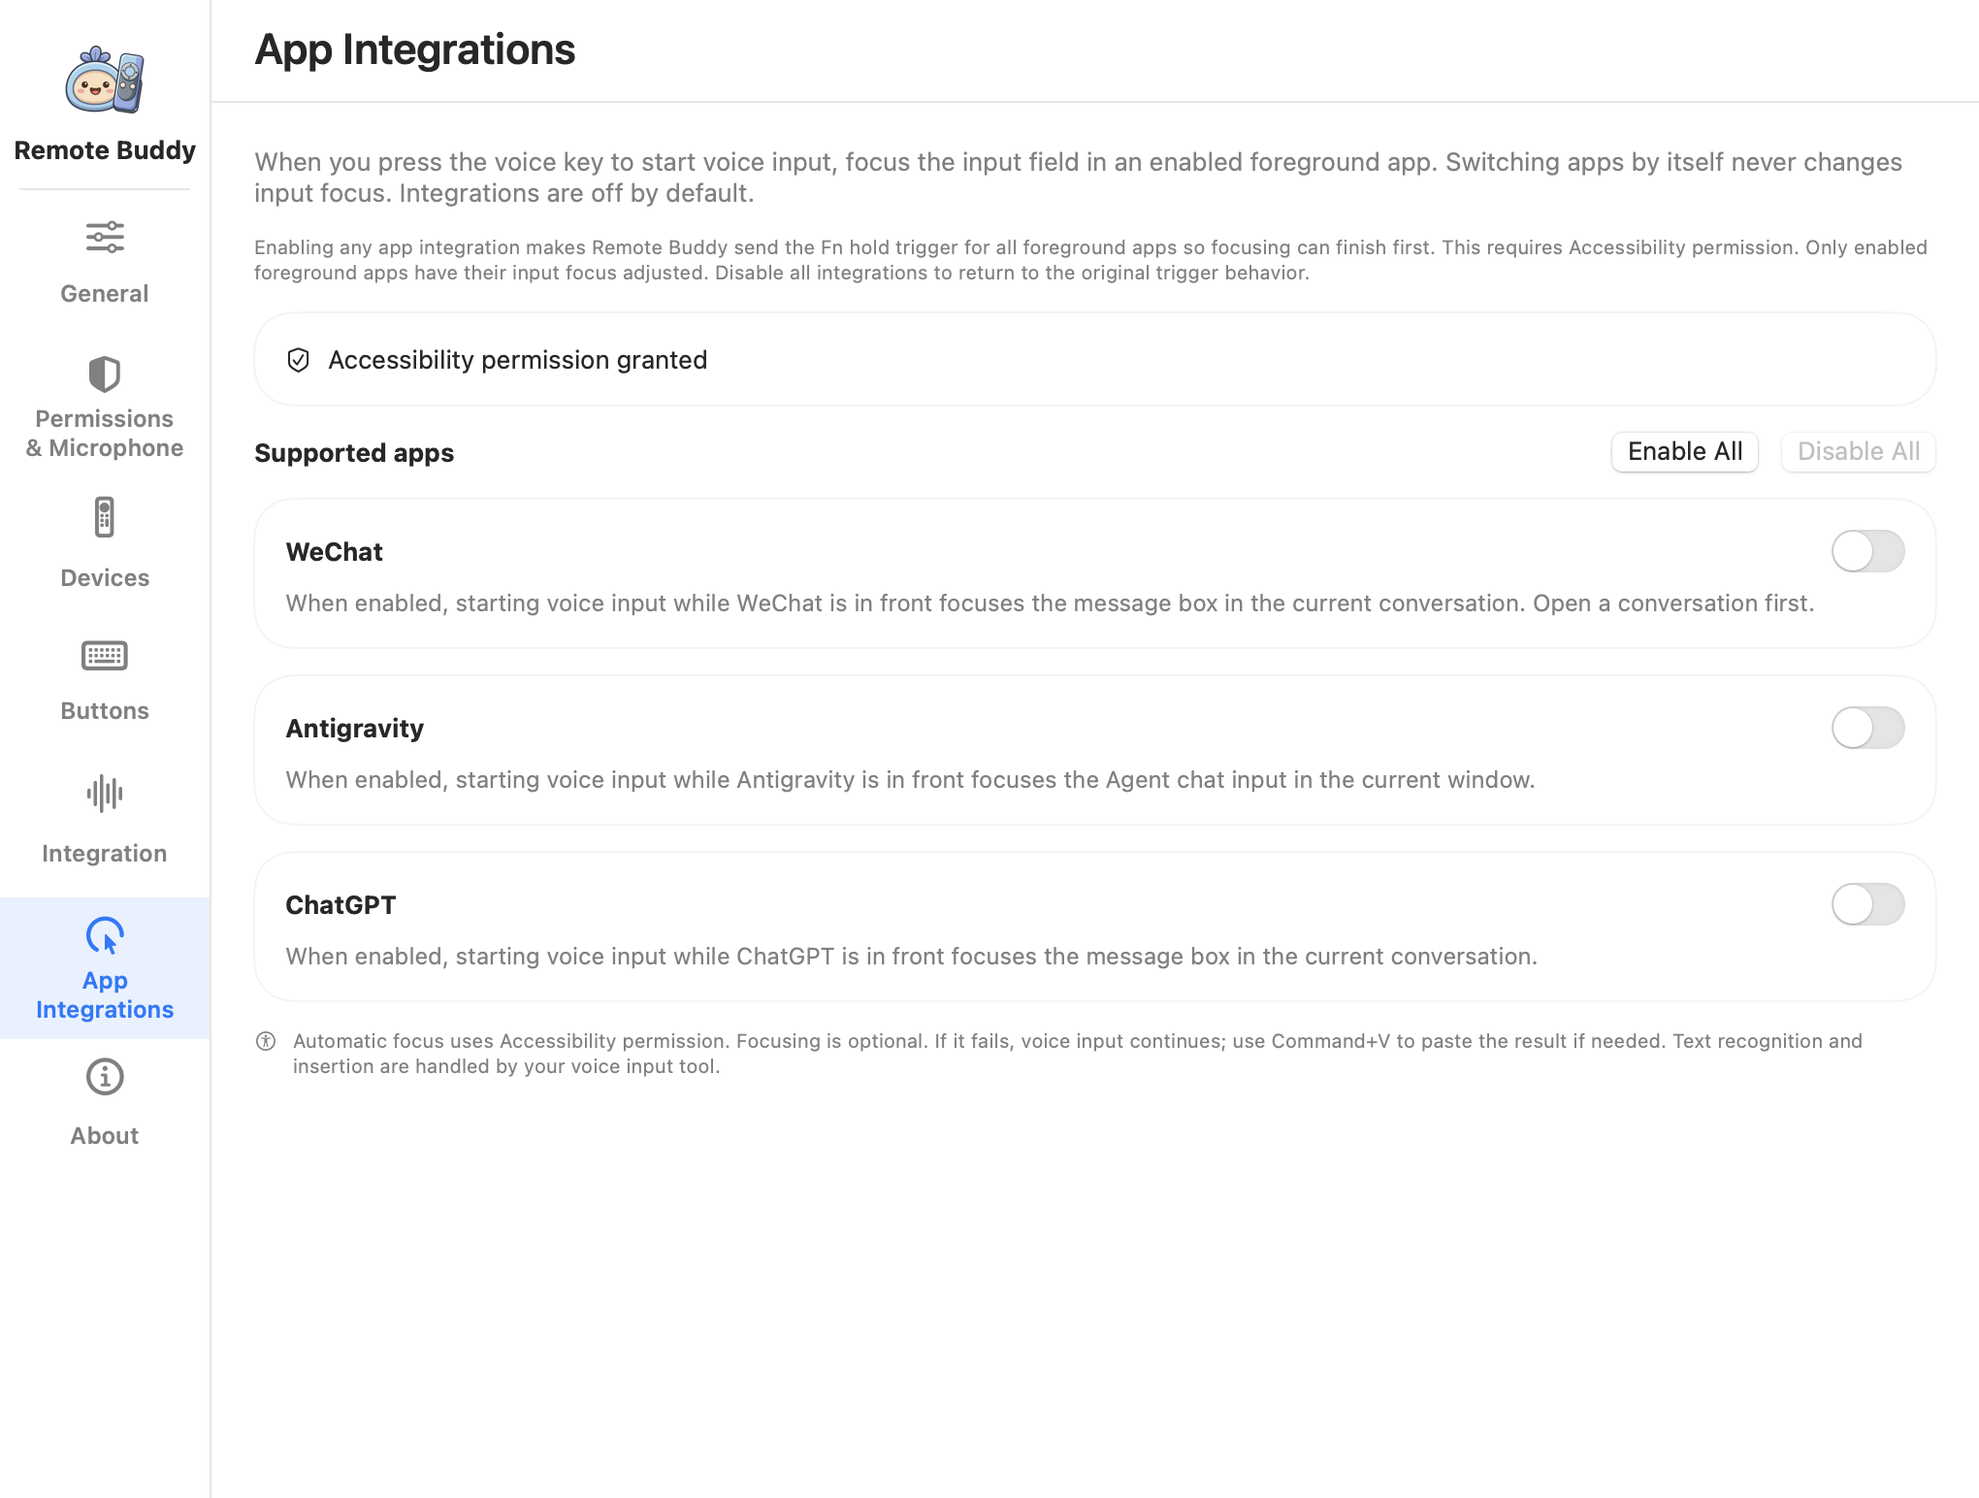
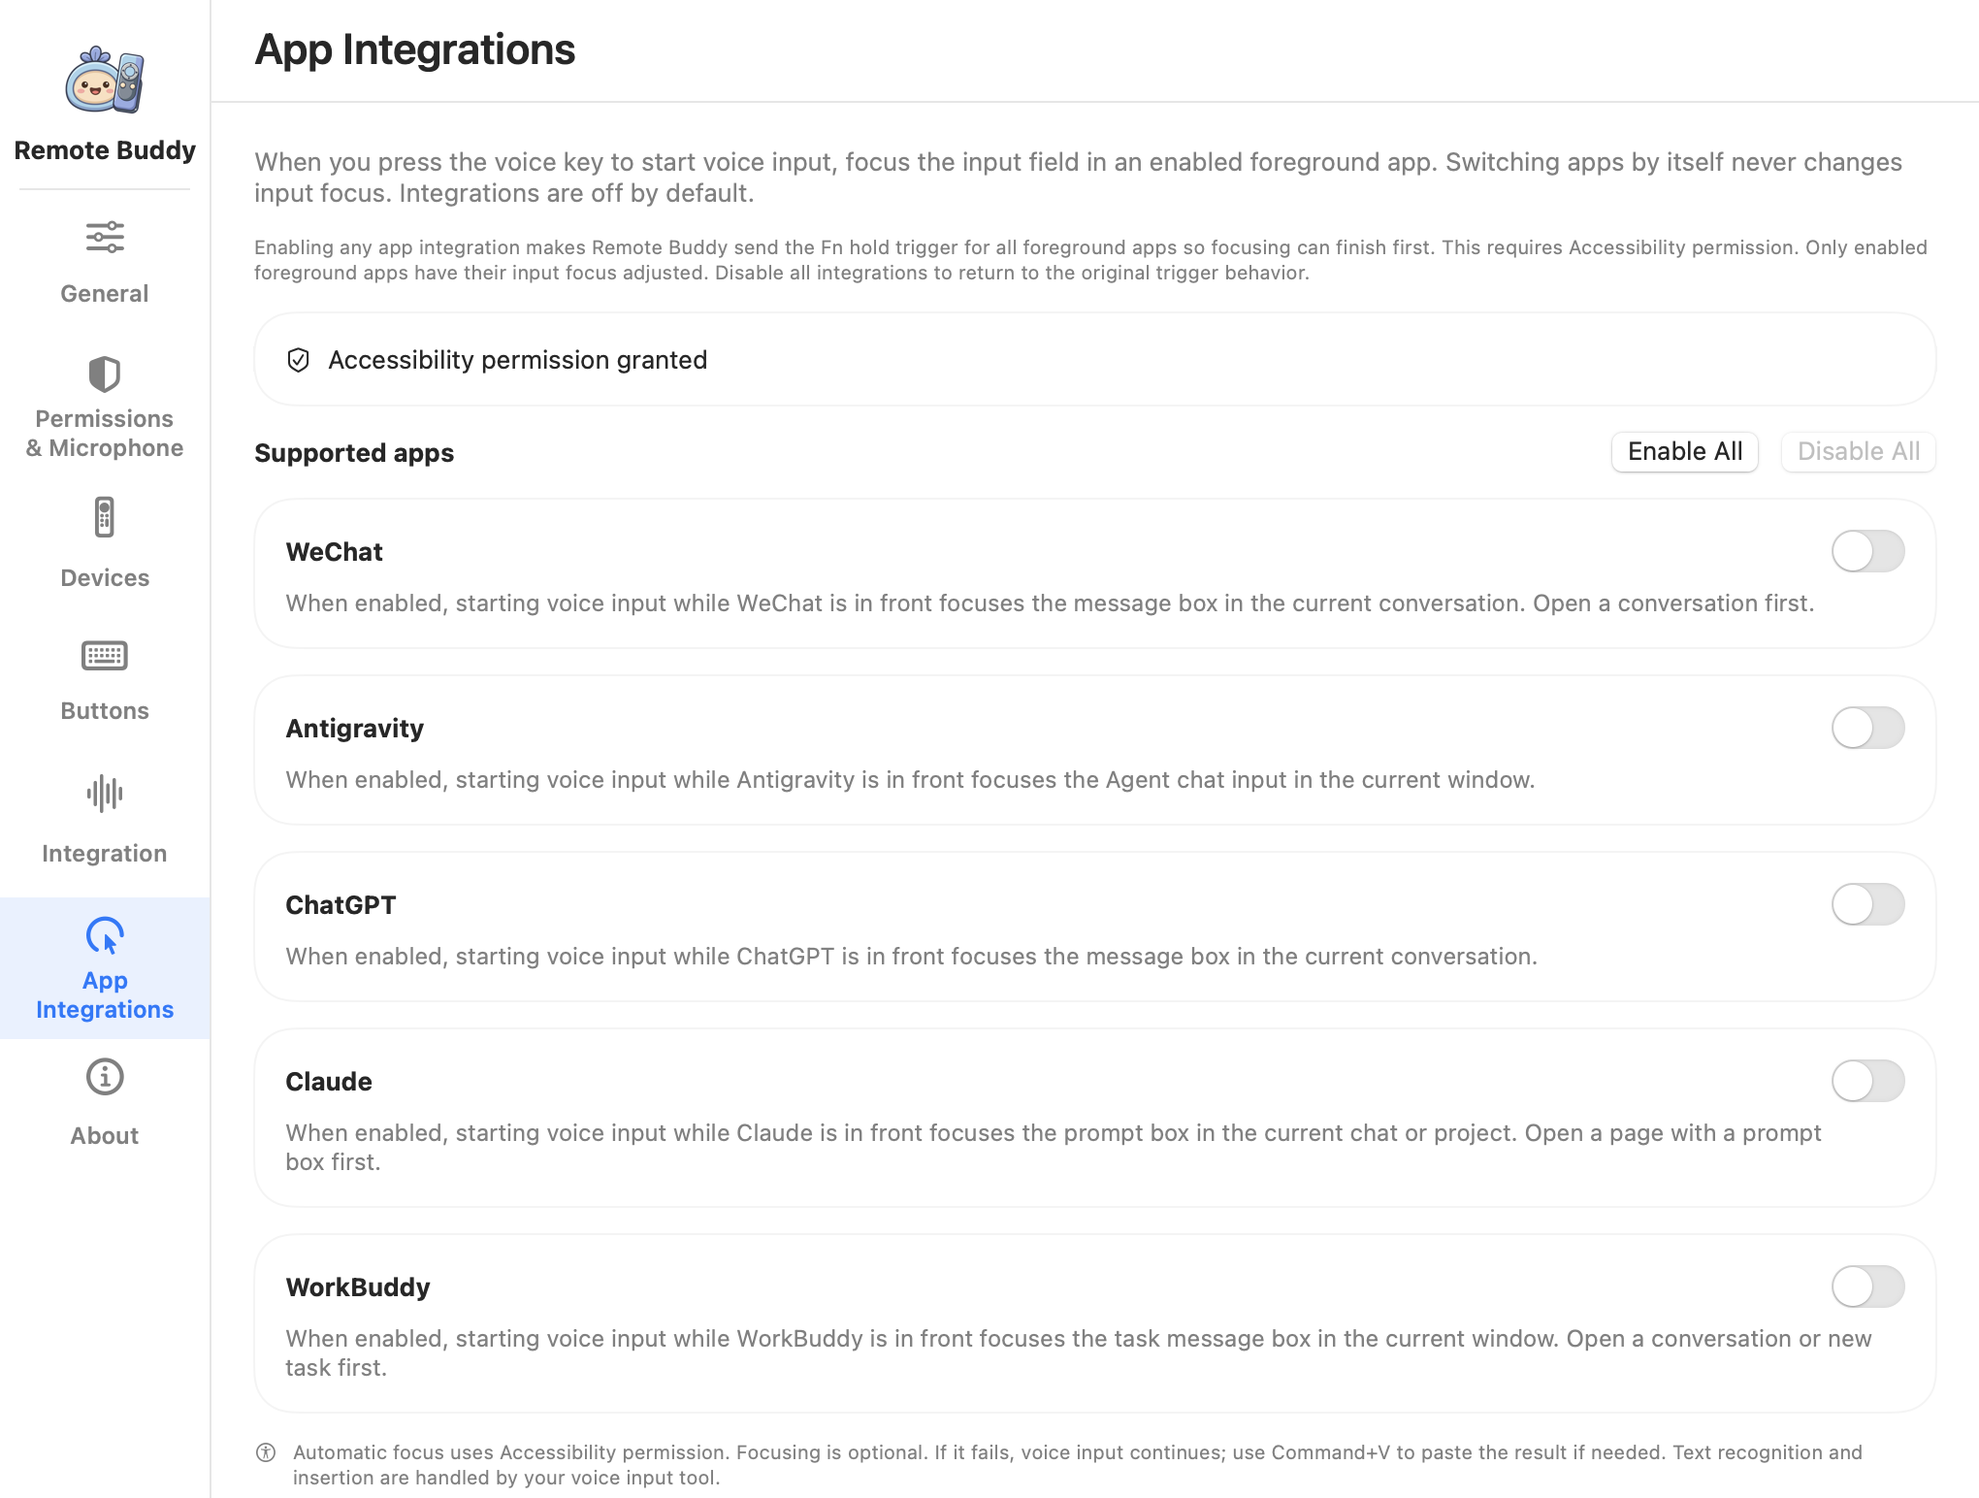
feat(integrations): support Claude and WorkBuddy composers

diff --git a/Tests/RemoteBuddyTests/ApplicationIntegrationTests.swift b/Tests/RemoteBuddyTests/ApplicationIntegrationTests.swift
@@ -23,7 +23,7 @@ struct ApplicationIntegrationTests {
             settings.setAllApplicationIntegrations(enabled: true)
             settings.setApplicationIntegration(.weChat, enabled: false)
             let restored = AppSettings(defaults: defaults)
-            #expect(restored.enabledApplicationIntegrations.count == 2)
+            #expect(restored.enabledApplicationIntegrations.count == ApplicationIntegration.allCases.count - 1)
             #expect(!restored.isApplicationIntegrationEnabled(.weChat))
             settings.setAllApplicationIntegrations(enabled: false)
             #expect(AppSettings(defaults: defaults).enabledApplicationIntegrations.isEmpty)
@@ -546,6 +546,48 @@ struct ApplicationIntegrationTests {
         #expect(ApplicationIntegration.matching("com.google.antigravity-ide") == nil)
         #expect(ApplicationIntegration.matching("com.openai.codex") == .chatGPT)
         #expect(ApplicationIntegration.matching("com.openai.chat") == .chatGPT)
+    }
+
+    @Test(arguments: [ApplicationIntegration.claude, .workBuddy])
+    func newDesktopIntegrationsSelectOnlyTheirVerifiedComposer(app: ApplicationIntegration) {
+        let label = app == .claude ? "Write your prompt to Claude" : "\u{feff}\n今天帮你做些什么？@ 添加上下文，/调用技能与指令"
+        let field = candidate(label)
+        #expect(ApplicationIntegration.matching(app.bundleIdentifier) == app)
+        #expect(KeyboardInjector.integratedComposerScore(field, integration: app, windowFrame: window) == 400)
+        #expect(KeyboardInjector.integratedComposerScore(field,
+            integration: app == .claude ? .workBuddy : .claude, windowFrame: window) == nil)
+        for invalid in [candidate(), candidate("composer"), candidate("Search " + label),
+                        candidate(label, protected: true), candidate(label, enabled: false),
+                        candidate(label, context: "monaco code editor")] {
+            #expect(KeyboardInjector.integratedComposerScore(invalid, integration: app, windowFrame: window) == nil)
+        }
+        var focused: [String] = []
+        #expect(KeyboardInjector.focusIntegratedCandidates(
+            [(element: "search", snapshot: candidate("Search")), (element: "composer", snapshot: field)],
+            integration: app, windowFrame: window, canContinue: { true },
+            focus: { focused.append($0); return true },
+            click: { _, _ in Issue.record("Direct focus must not click"); return false }))
+        #expect(focused == ["composer"])
+        #expect(!KeyboardInjector.focusIntegratedCandidates(
+            [(element: "one", snapshot: field), (element: "two", snapshot: field)],
+            integration: app, windowFrame: window, canContinue: { true },
+            focus: { _ in Issue.record("Ambiguous composers must not focus"); return true },
+            click: { _, _ in Issue.record("Ambiguous composers must not click"); return true }))
+    }
+
+    @Test(arguments: [ApplicationIntegration.claude, .workBuddy])
+    func newDesktopComposerClicksRequireHitTestAndConfirmedFocus(app: ApplicationIntegration) {
+        let field = candidate(app == .claude ? "Write your prompt to Claude" : "今天帮你做些什么？")
+        for hit in [false, true] {
+            for focused in [false, true] {
+                var clicks = 0
+                let result = KeyboardInjector.clickIntegratedComposer(field, integration: app,
+                    windowFrame: window, canContinue: { true }, hitTest: { _ in hit },
+                    postClick: { _ in clicks += 1; return true }, isFocused: { focused }, pause: {})
+                #expect(result == (hit && focused))
+                #expect(clicks == (hit ? 1 : 0))
+            }
+        }
     }
 
     @Test func searchCodeSecureAndUnlabeledGenericEditorsAreNotComposers() {

diff --git a/Sources/RemoteBuddy/Input/KeyboardInjector.Accessibility.swift b/Sources/RemoteBuddy/Input/KeyboardInjector.Accessibility.swift
@@ -248,8 +248,7 @@ extension KeyboardInjector {
     static func integratedComposerClickPoint(_ candidate: AccessibilityTextCandidate,
                                              integration: ApplicationIntegration,
                                              windowFrame: CGRect?) -> CGPoint? {
-        guard integration == .antigravity,
-              isAntigravityMessageInput(candidate),
+        guard isVerifiedIntegratedComposer(candidate, integration: integration),
               integratedComposerScore(candidate, integration: integration, windowFrame: windowFrame) != nil,
               let frame = candidate.frame, let windowFrame else { return nil }
         let point = CGPoint(x: frame.minX + min(24, frame.width / 2),
@@ -332,6 +331,20 @@ extension KeyboardInjector {
             .contains { $0.lowercased() == "message input" }
     }
 
+    /// Labels observed in the applications' user-visible accessibility trees.
+    /// Only these explicit composers may use the hit-tested click fallback.
+    static func isVerifiedIntegratedComposer(_ candidate: AccessibilityTextCandidate,
+                                            integration: ApplicationIntegration) -> Bool {
+        let labels = [candidate.title, candidate.description, candidate.help, candidate.placeholder]
+            .map { $0.lowercased().trimmingCharacters(in: .whitespacesAndNewlines) }
+        switch integration {
+        case .antigravity: return isAntigravityMessageInput(candidate)
+        case .claude: return labels.contains("write your prompt to claude")
+        case .workBuddy: return labels.contains { $0.contains("今天帮你做些什么？") }
+        case .weChat, .chatGPT: return false
+        }
+    }
+
     static func integratedComposerScore(_ candidate: AccessibilityTextCandidate,
                                         integration: ApplicationIntegration,
                                         windowFrame: CGRect?) -> Int? {
@@ -358,6 +371,7 @@ extension KeyboardInjector {
         case .chatGPT: specific = ["do anything", "work with chatgpt", "message chatgpt", "ask anything", "ask chatgpt", "询问任何问题", "询问 chatgpt"]
         case .antigravity: specific = ["ask anything", "ask agent", "message agent", "agent input", "向 agent 提问"]
         case .weChat: specific = ["message", "输入", "编辑消息"]
+        case .claude, .workBuddy: specific = []
         }
         // Verified in the live WeChat accessibility tree. Avoid its unlabeled
         // search field and message list even if they move or resize.
@@ -365,7 +379,8 @@ extension KeyboardInjector {
             return candidate.identifier == "chat_input_field" ? 400 : nil
         }
         // Verified Antigravity's current conversation composer is labeled Message input.
-        if integration == .antigravity, isAntigravityMessageInput(candidate) { return 400 }
+        if isVerifiedIntegratedComposer(candidate, integration: integration) { return 400 }
+        if integration == .claude || integration == .workBuddy { return nil }
         if (common + specific).contains(where: ownText.contains) {
             return 200 + (candidate.role == "AXTextArea" ? 20 : 0)
         }

diff --git a/Sources/RemoteBuddy/Integrations/ApplicationIntegration.swift b/Sources/RemoteBuddy/Integrations/ApplicationIntegration.swift
@@ -4,7 +4,7 @@ import Foundation
 
 /// Foreground integrations are opt-in and independent of application-launch button mappings.
 enum ApplicationIntegration: String, CaseIterable, Identifiable {
-    case weChat, antigravity, chatGPT
+    case weChat, antigravity, chatGPT, claude, workBuddy
 
     var id: String { rawValue }
     var bundleIdentifier: String {
@@ -12,6 +12,8 @@ enum ApplicationIntegration: String, CaseIterable, Identifiable {
         case .chatGPT: return "com.openai.codex"
         case .antigravity: return "com.google.antigravity"
         case .weChat: return "com.tencent.xinWeChat"
+        case .claude: return "com.anthropic.claudefordesktop"
+        case .workBuddy: return "com.tencent.workbuddy.mac"
         }
     }
     var title: String {
@@ -19,6 +21,8 @@ enum ApplicationIntegration: String, CaseIterable, Identifiable {
         case .chatGPT: return "ChatGPT"
         case .antigravity: return "Antigravity"
         case .weChat: return "WeChat"
+        case .claude: return "Claude"
+        case .workBuddy: return "WorkBuddy"
         }
     }
     var detailKey: String {
@@ -26,6 +30,8 @@ enum ApplicationIntegration: String, CaseIterable, Identifiable {
         case .weChat: return "application_integration.weChat.detail"
         case .antigravity: return "application_integration.antigravity.detail"
         case .chatGPT: return "application_integration.chatGPT.detail"
+        case .claude: return "application_integration.claude.detail"
+        case .workBuddy: return "application_integration.workBuddy.detail"
         }
     }
 

diff --git a/pages/demo.js b/pages/demo.js
@@ -87,7 +87,7 @@ button.addEventListener('blur', stop);
         badge: '可选自动聚焦',
         windowTitle: '应用集成 · Remote Buddy',
         src: 'assets/screenshots/application-integration-zh.png',
-        alt: '应用集成界面：微信、Antigravity 和 ChatGPT 的开关、辅助功能状态与 Fn 行为说明',
+        alt: '应用集成界面：微信、Antigravity、ChatGPT、Claude 和 WorkBuddy 的开关、辅助功能状态与 Fn 行为说明',
         desc: '分别或批量开启集成，在语音触发前尝试聚焦输入框。聚焦失败仍可继续语音，必要时用 Command+V 粘贴结果。'
       },
       {
@@ -214,7 +214,7 @@ button.addEventListener('blur', stop);
         badge: 'Optional Focus',
         windowTitle: 'App Integrations · Remote Buddy',
         src: 'assets/screenshots/application-integration-en.png',
-        alt: 'App integrations: switches for WeChat, Antigravity, and ChatGPT, Accessibility status, and Fn behavior',
+        alt: 'App integrations: switches for WeChat, Antigravity, ChatGPT, Claude, and WorkBuddy, Accessibility status, and Fn behavior',
         desc: 'Enable individual or all integrations to attempt input focus before voice starts. Voice continues if focus fails; use Command+V to paste the result if needed.'
       },
       {

diff --git a/docs/interface.md b/docs/interface.md
@@ -7,7 +7,7 @@
 3. **遥控器连接**：右上角“添加新设备”；每台遥控器单独分组显示名称、图片、连接状态和增益，增益独立保存。
 4. **按键映射**：顶部选择已记录设备，配置普通硬件按键动作、快捷键和常用语；语音设置入口跳转到输入法集成。
 5. **输入法集成**：当前输入工具、语音快捷键和音频状态；微信输入法、豆包输入法、[Voice Buddy（语音搭子）](https://myvoicebuddy.com/)、网易叭哥说、Typeless、macOS 听写与其他工具的配置向导入口。概览显示所选工具名称，不代表已通过语音输入验证。
-6. **应用集成**：位于“关于”前，列出微信、Antigravity 和 ChatGPT；默认全部关闭，可逐项切换，也可全部开启或全部关闭。每项说明对应的输入位置。只有按下语音键时，才检查当前前台应用并尝试聚焦到当前窗口的对话输入框；完成聚焦尝试后才继续准备并发送语音触发键，普通应用切换不会触发。需要辅助功能权限，聚焦是可选环节，找不到明确目标或无法确认聚焦时会显示提示并继续语音输入；若输入工具将识别结果留在剪贴板，可用 Command+V 手动粘贴。应用切换、语音结束、系统睡眠或关闭集成会取消待执行的聚焦，不会追随到其他窗口或在松开后补发语音触发键。准备过程有等待上限，期间的音频只在内存中限量暂存，取消即丢弃。开启任意应用集成时，Fn 按住模式也接管原生 Fn 以保证聚焦先于触发；Fn 点按模式在既有音频暂存流程中等待聚焦。Antigravity 针对 Agent 聊天输入框，微信需先打开会话。
+6. **应用集成**：位于“关于”前，列出微信、Antigravity、ChatGPT、Claude 和 WorkBuddy；默认全部关闭，可逐项切换，也可全部开启或全部关闭。每项说明对应的输入位置。只有按下语音键时，才检查当前前台应用并尝试聚焦到当前窗口的对话输入框；完成聚焦尝试后才继续准备并发送语音触发键，普通应用切换不会触发。需要辅助功能权限，聚焦是可选环节，找不到明确目标或无法确认聚焦时会显示提示并继续语音输入；若输入工具将识别结果留在剪贴板，可用 Command+V 手动粘贴。应用切换、语音结束、系统睡眠或关闭集成会取消待执行的聚焦，不会追随到其他窗口或在松开后补发语音触发键。准备过程有等待上限，期间的音频只在内存中限量暂存，取消即丢弃。开启任意应用集成时，Fn 按住模式也接管原生 Fn 以保证聚焦先于触发；Fn 点按模式在既有音频暂存流程中等待聚焦。Antigravity 针对 Agent 聊天输入框，微信需先打开会话。
 7. **关于**：保留应用图标和简介；版本信息、软件更新、诊断与日志、项目链接分别分组。常用语从按键映射页进入。
 
 侧栏使用较紧凑的上下间距，保留每项图标与文字；小窗口仍可滚动。

diff --git a/docs/development.md b/docs/development.md
@@ -337,9 +337,17 @@ test attempts, evidence limits, signing checks, and next acceptance steps.
 
 ## App integration accessibility and preparation boundaries
 
+Claude (`com.anthropic.claudefordesktop`) matches the visible “Write your prompt
+to Claude” composer label. WorkBuddy (`com.tencent.workbuddy.mac`) matches its
+“今天帮你做些什么？” composer label. Both are opt-in and use control metadata,
+not editable values. Search, code editors, modal dialogs, ambiguous targets, and
+sensitive fields remain excluded. UI inspection identified both controls and
+confirmed WorkBuddy focus; physical remote acceptance remains required.
+
 Automatic voice integration reads public accessibility control metadata and requests
 focus. Its focus writer sets only `AXFocused` and `AXFocusedUIElement`; it may use
-`AXPress` or one hit-tested click on Antigravity's identified input. The automatic
+`AXPress` for Antigravity or one hit-tested click on an explicitly identified
+Antigravity, Claude, or WorkBuddy input. The automatic
 entry point does not call `announceManualAccessibility` or set `AXManualAccessibility`
 or `AXEnhancedUserInterface`. Tests guard that entry point and inject the real focus
 writer's attribute/action backend to check the complete write list. Metadata reads

diff --git a/README.en.md b/README.en.md
@@ -19,7 +19,7 @@ Supports **macOS 14 and later**, on Apple Silicon and Intel Macs. Windows suppor
 - Use a remote's microphone for voice input, without reaching for the keyboard.
 - Map Xiaomi remote control buttons to keyboard shortcuts, application actions, or common phrases, with category filtering, independent single/double/long-press actions, and individual trigger reset. Phrase content can mix languages and stays the same when the interface language changes.
 - Configure hold-to-talk or press-to-start/stop behavior for your input tool.
-- Optional app integrations focus the current conversation input before voice input starts in WeChat, Antigravity, and ChatGPT, with individual and bulk switches.
+- Optional app integrations focus the current conversation input before voice input starts in WeChat, Antigravity, ChatGPT, Claude, and WorkBuddy, with individual and bulk switches.
 - Set up permissions, the microphone driver, device connection, and input integration in one guide.
 
 Remote Buddy does not collect usage statistics, save recordings or transcript history, or upload logs. Recognition and text cleanup are handled by your selected input tool, with that tool's own network and privacy settings.
